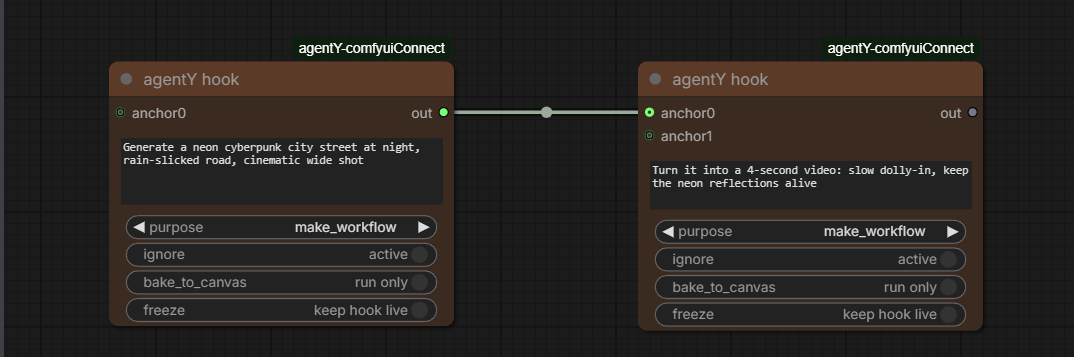
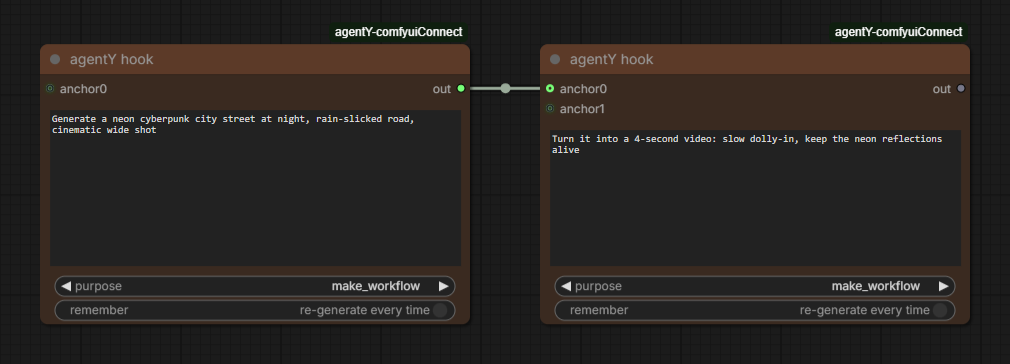
Reshoot the two images that went stale, and say what a capture leaves out
You were right that a screenshot still looked old — it was not the one I
replaced.

`mcp-settings.png` is framed on the MCP block with the settings sections
above it, so renaming those sections dated a picture I never thought to
look at: it still showed `Behaviour`, `llm`, `memory`, `system_prompts`,
and a Close button the modal no longer has.

`hook-chain.png` was worse and older. It showed three widgets that do not
exist any more — `bake_to_canvas`, `freeze`, `ignore` — from before they
became the single `remember` switch the docs have described for a while.
Rebuilt from two real hook nodes on a scratch tab, discarded afterwards.

Checked the other four rather than guess again: `chat-panel`, `overview`,
`token-usage` and the new `canvas-screenshot` all still match the UI and
the prose. `token-usage` shows old model names, but the layout it
illustrates is current.

Reshooting the hooks turned up something the feature docs had wrong.
Multiline text — prompts, hook directives — is a `<textarea>` ComfyUI
floats ABOVE the canvas, and `toDataURL` cannot see a DOM element. So
`screenshot_canvas` returns node titles, single-line values, groups,
colours and wiring, and no prompt text at all. Both the guide and the
README claimed it was "your canvas as you have it" without qualification.
Now they say what is missing, and what to ask for instead.

Claude-Session: https://claude.ai/code/session_01VXim3HxTfxvnKf3G9cozNt

Changed region(s): [[0.0, 0.0, 0.9822, 1.0], [0.0921, 0.4006, 0.399, 0.4622], [0.6139, 0.4622, 0.9208, 0.5238]]

diff --git a/README.md b/README.md
@@ -30,7 +30,7 @@ An AI agent that constructs and executes [ComfyUI](https://github.com/comfyanony
 - **Refine loops on your own graph** — *"change the prompt until the woman's position matches the original frame"*. With a workflow already open in the canvas and no hook nodes at all, the agent runs **your** graph, judges each output against the condition you stated (same judge as QA, comparing against the images your graph loads), rewrites one value, and goes again — stopping the run it lands on, or when the budget (`[refine] max_runs`, default 4) is spent. You watch the value change in your own node, and typing anything stops it. See [Loops](docs/using-agentY.md#loops-keep-trying-until-its-right).
 - **Web references, straight onto the canvas** — *“search the web for images of this car, from every angle”*. The agent searches, picks, downloads into ComfyUI's `input` dir, and every picture it keeps is dropped on your graph as a loader node — downloading **is** showing, with no extra step. Name a number and it stages that many; otherwise it takes the best one or two. Watermarked stock previews are skipped, and a hotlink block served at `…/photo.jpg` is never placed as a node that would show nothing. See [Finding references](docs/using-agentY.md#finding-reference-images-on-the-web).
 - **Fill a slot nothing is wired to** — an unwired input is *absent* from the graph, so ten empty reference slots look exactly like a node that has none. The agent reads what the node really declares from ComfyUI's schema, adds a loader and connects it — for that run only, leaving your canvas untouched. That is what makes *“run those two again, but with this photo as a reference”* work. See [Filling a slot](docs/using-agentY.md#filling-a-slot-nothing-is-wired-to).
-- **Screenshots of your canvas** — *"send me a screenshot of my workflow on Slack"*. The picture is drawn by the ComfyUI page itself, so it is your graph as **you** have it — your layout, groups, colours and collapsed nodes — and your view is put back before the browser paints, so nothing moves on screen. A graph too large to draw at readable zoom comes back as a labelled overview and the agent says so; select the part you care about and it is photographed at full size. The agent is also told when several workflows are open in ComfyUI's tabs, and that only the active one is live. See [Screenshots](docs/using-agentY.md#screenshots-of-your-workflow).
+- **Screenshots of your canvas** — *"send me a screenshot of my workflow on Slack"*. The picture is drawn by the ComfyUI page itself, so it is your graph as **you** have it — your layout, groups, colours and collapsed nodes — and your view is put back before the browser paints, so nothing moves on screen. Multiline text (prompts, hook directives) is an HTML overlay above the canvas and so is *not* in the picture — titles, widget values, groups, colours and wiring are. A graph too large to draw at readable zoom comes back as a labelled overview and the agent says so; select the part you care about and it is photographed at full size. The agent is also told when several workflows are open in ComfyUI's tabs, and that only the active one is live. See [Screenshots](docs/using-agentY.md#screenshots-of-your-workflow).
 - **MCP support** — call tools from external **MCP servers** (config-driven `config/mcp.json`, `http`/`sse`/`stdio`, with `none` / `header` / **OAuth** auth). Ships with **Magnific** wired via OAuth (one-click *Authorize…* in Settings). See [MCP servers](docs/using-agentY.md#mcp-servers).
 - **Slack bridge (optional, off by default)** — a **second line** into the agent alongside the sidebar, never instead of it. Every turn is mirrored to your Slack DM as it runs, *including the ones you start in the panel*, so you can queue a render at the desk and watch it finish from a phone; a DM back drives the same conversation. Outbound **Socket Mode**, so nothing has to be reachable from the internet. See [Slack](docs/slack.md).
 - **Persistent chat history** — threads, messages, and the per-thread image gallery are stored in a self-contained local **SQLite** database (`memory/conversations.sqlite`). No Docker, Postgres, or S3.

diff --git a/docs/using-agentY.md b/docs/using-agentY.md
@@ -470,6 +470,13 @@ showing its shape and wiring with no labels on the nodes. The agent is told to s
 so rather than pretend otherwise. If you want to *read* something, select the part
 you mean and ask again — a handful of nodes is photographed at full size.
 
+**Multiline text does not appear in it.** Prompts, hook directives — anything in a
+big text box — are HTML overlays that ComfyUI floats *above* the canvas, and a
+canvas drawing cannot see them. Everything else is there: node titles, single-line
+widget values, groups, colours, wiring. So a screenshot is the right way to show
+someone the *shape* of a workflow and the wrong way to show them a prompt; for
+that, ask the agent to read it back to you.
+
 **It needs the browser open.** The picture is drawn by the ComfyUI page, so a
 closed tab means no picture. The agent will tell you that rather than sit waiting.
 
